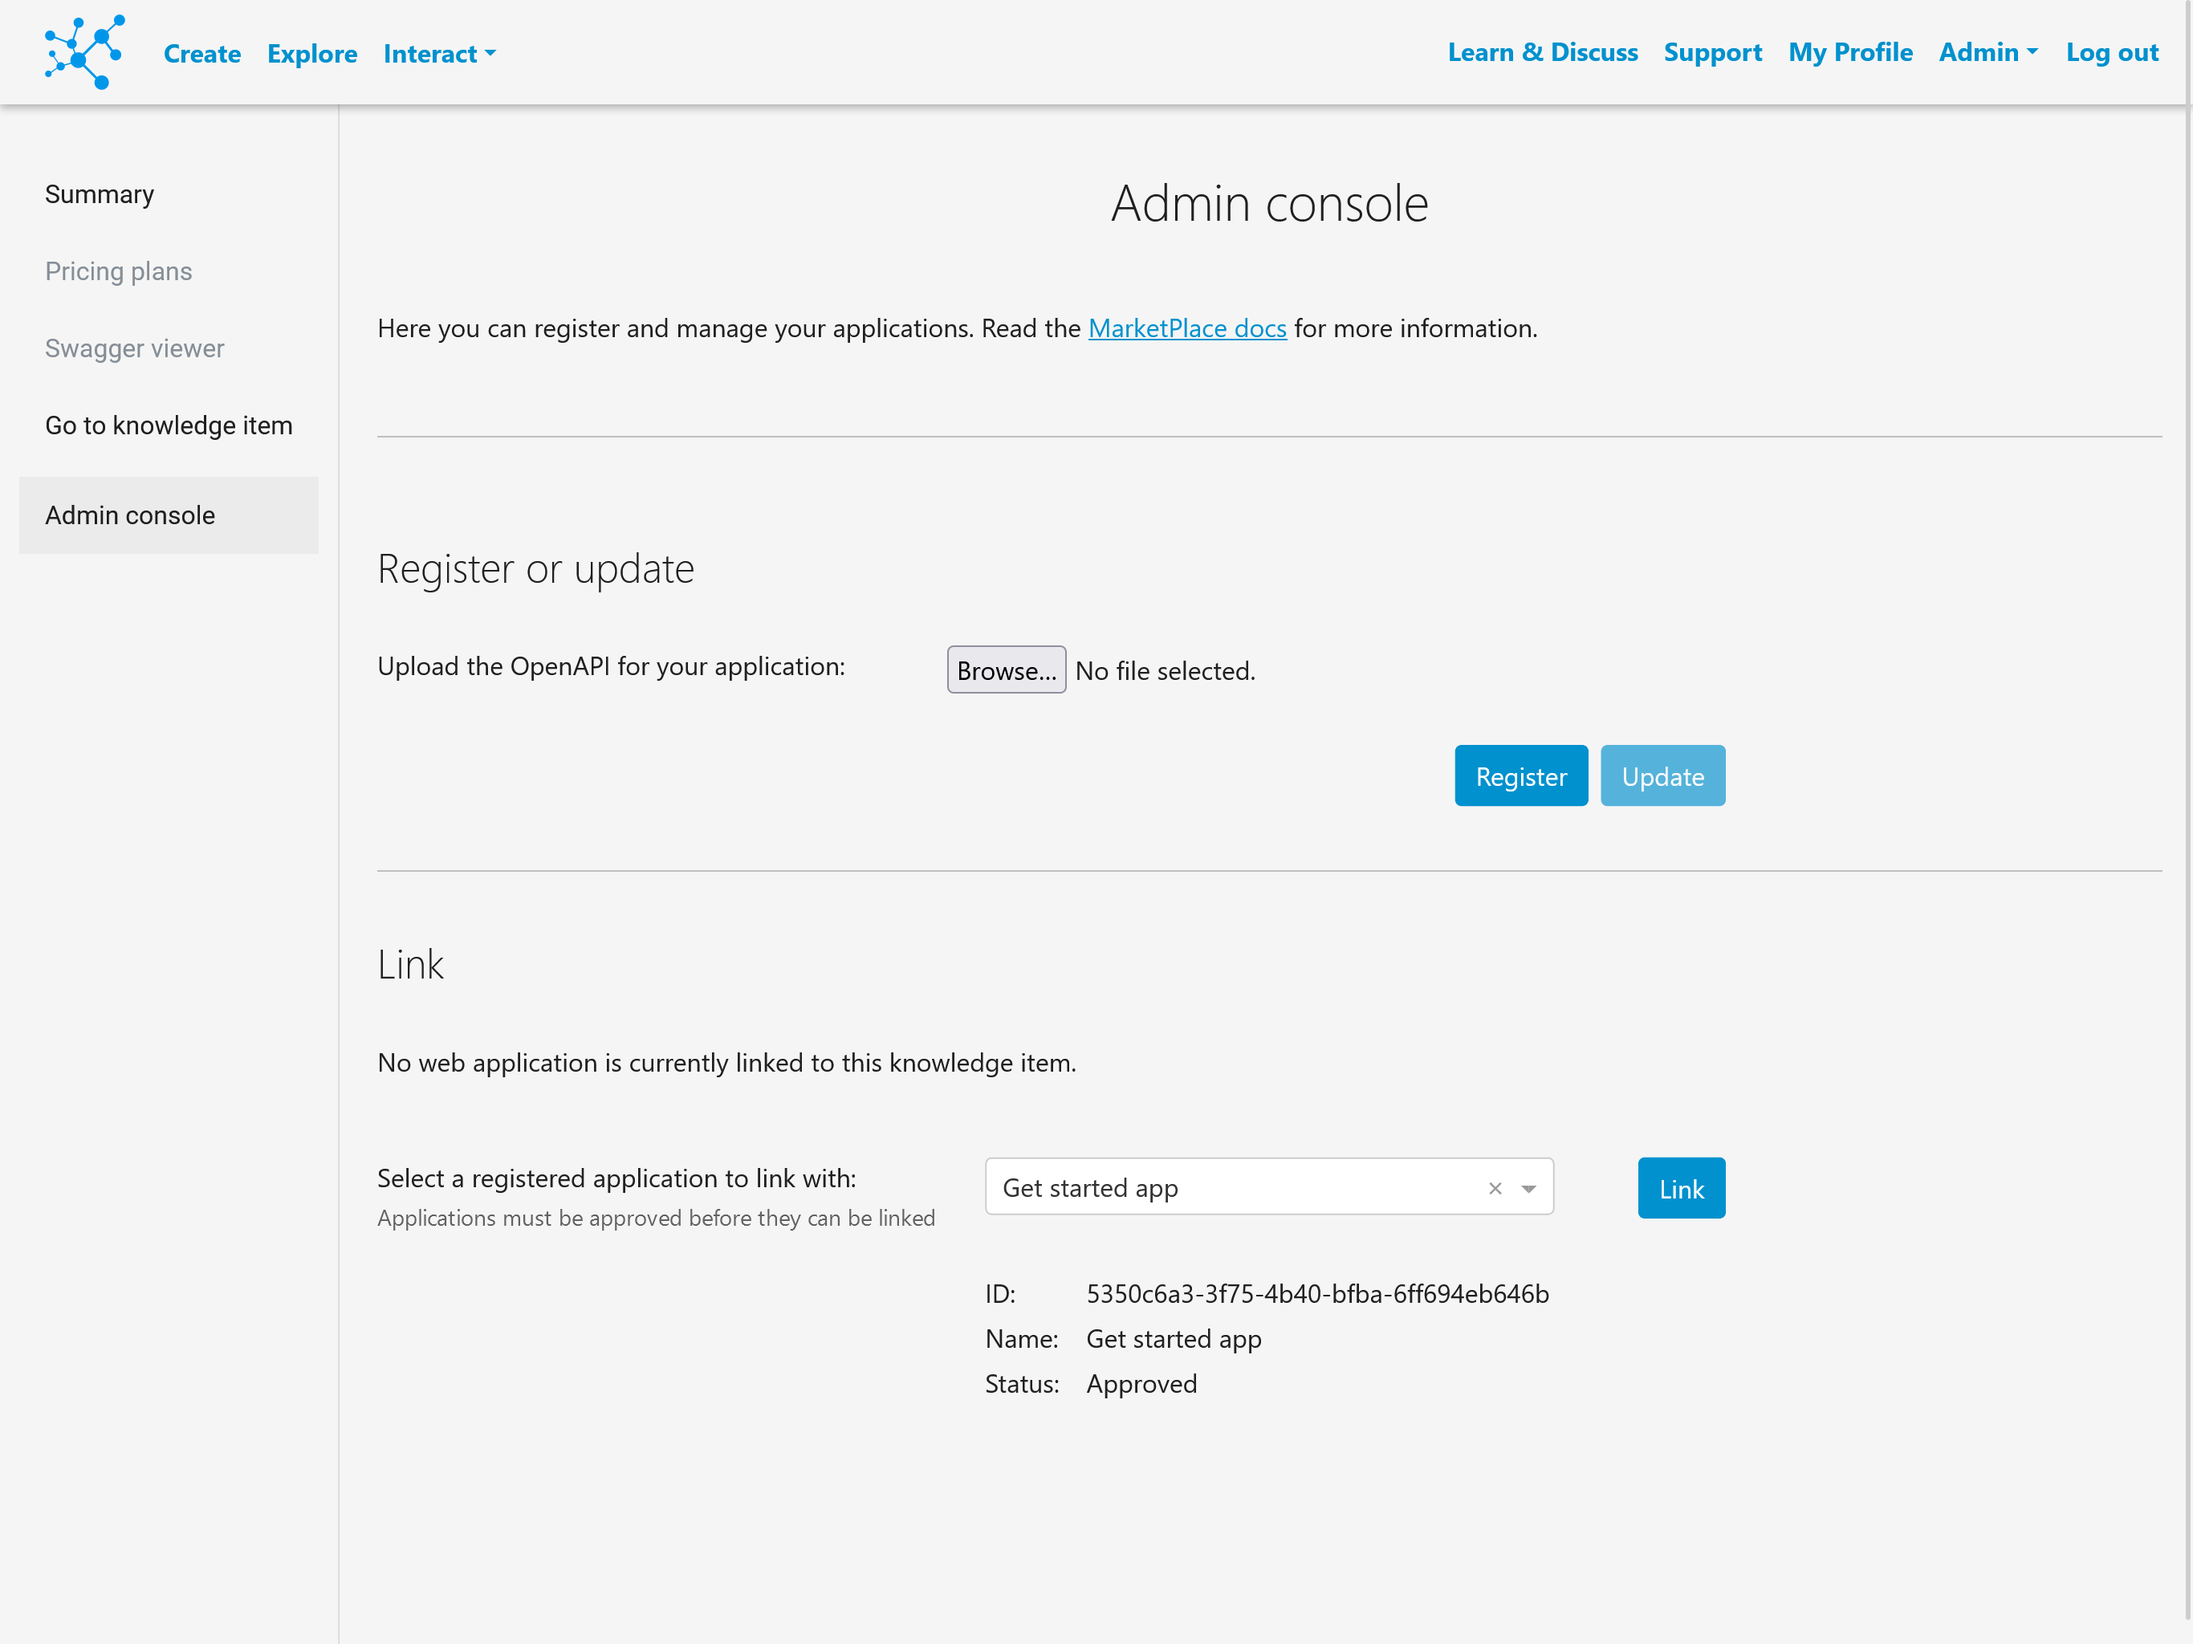
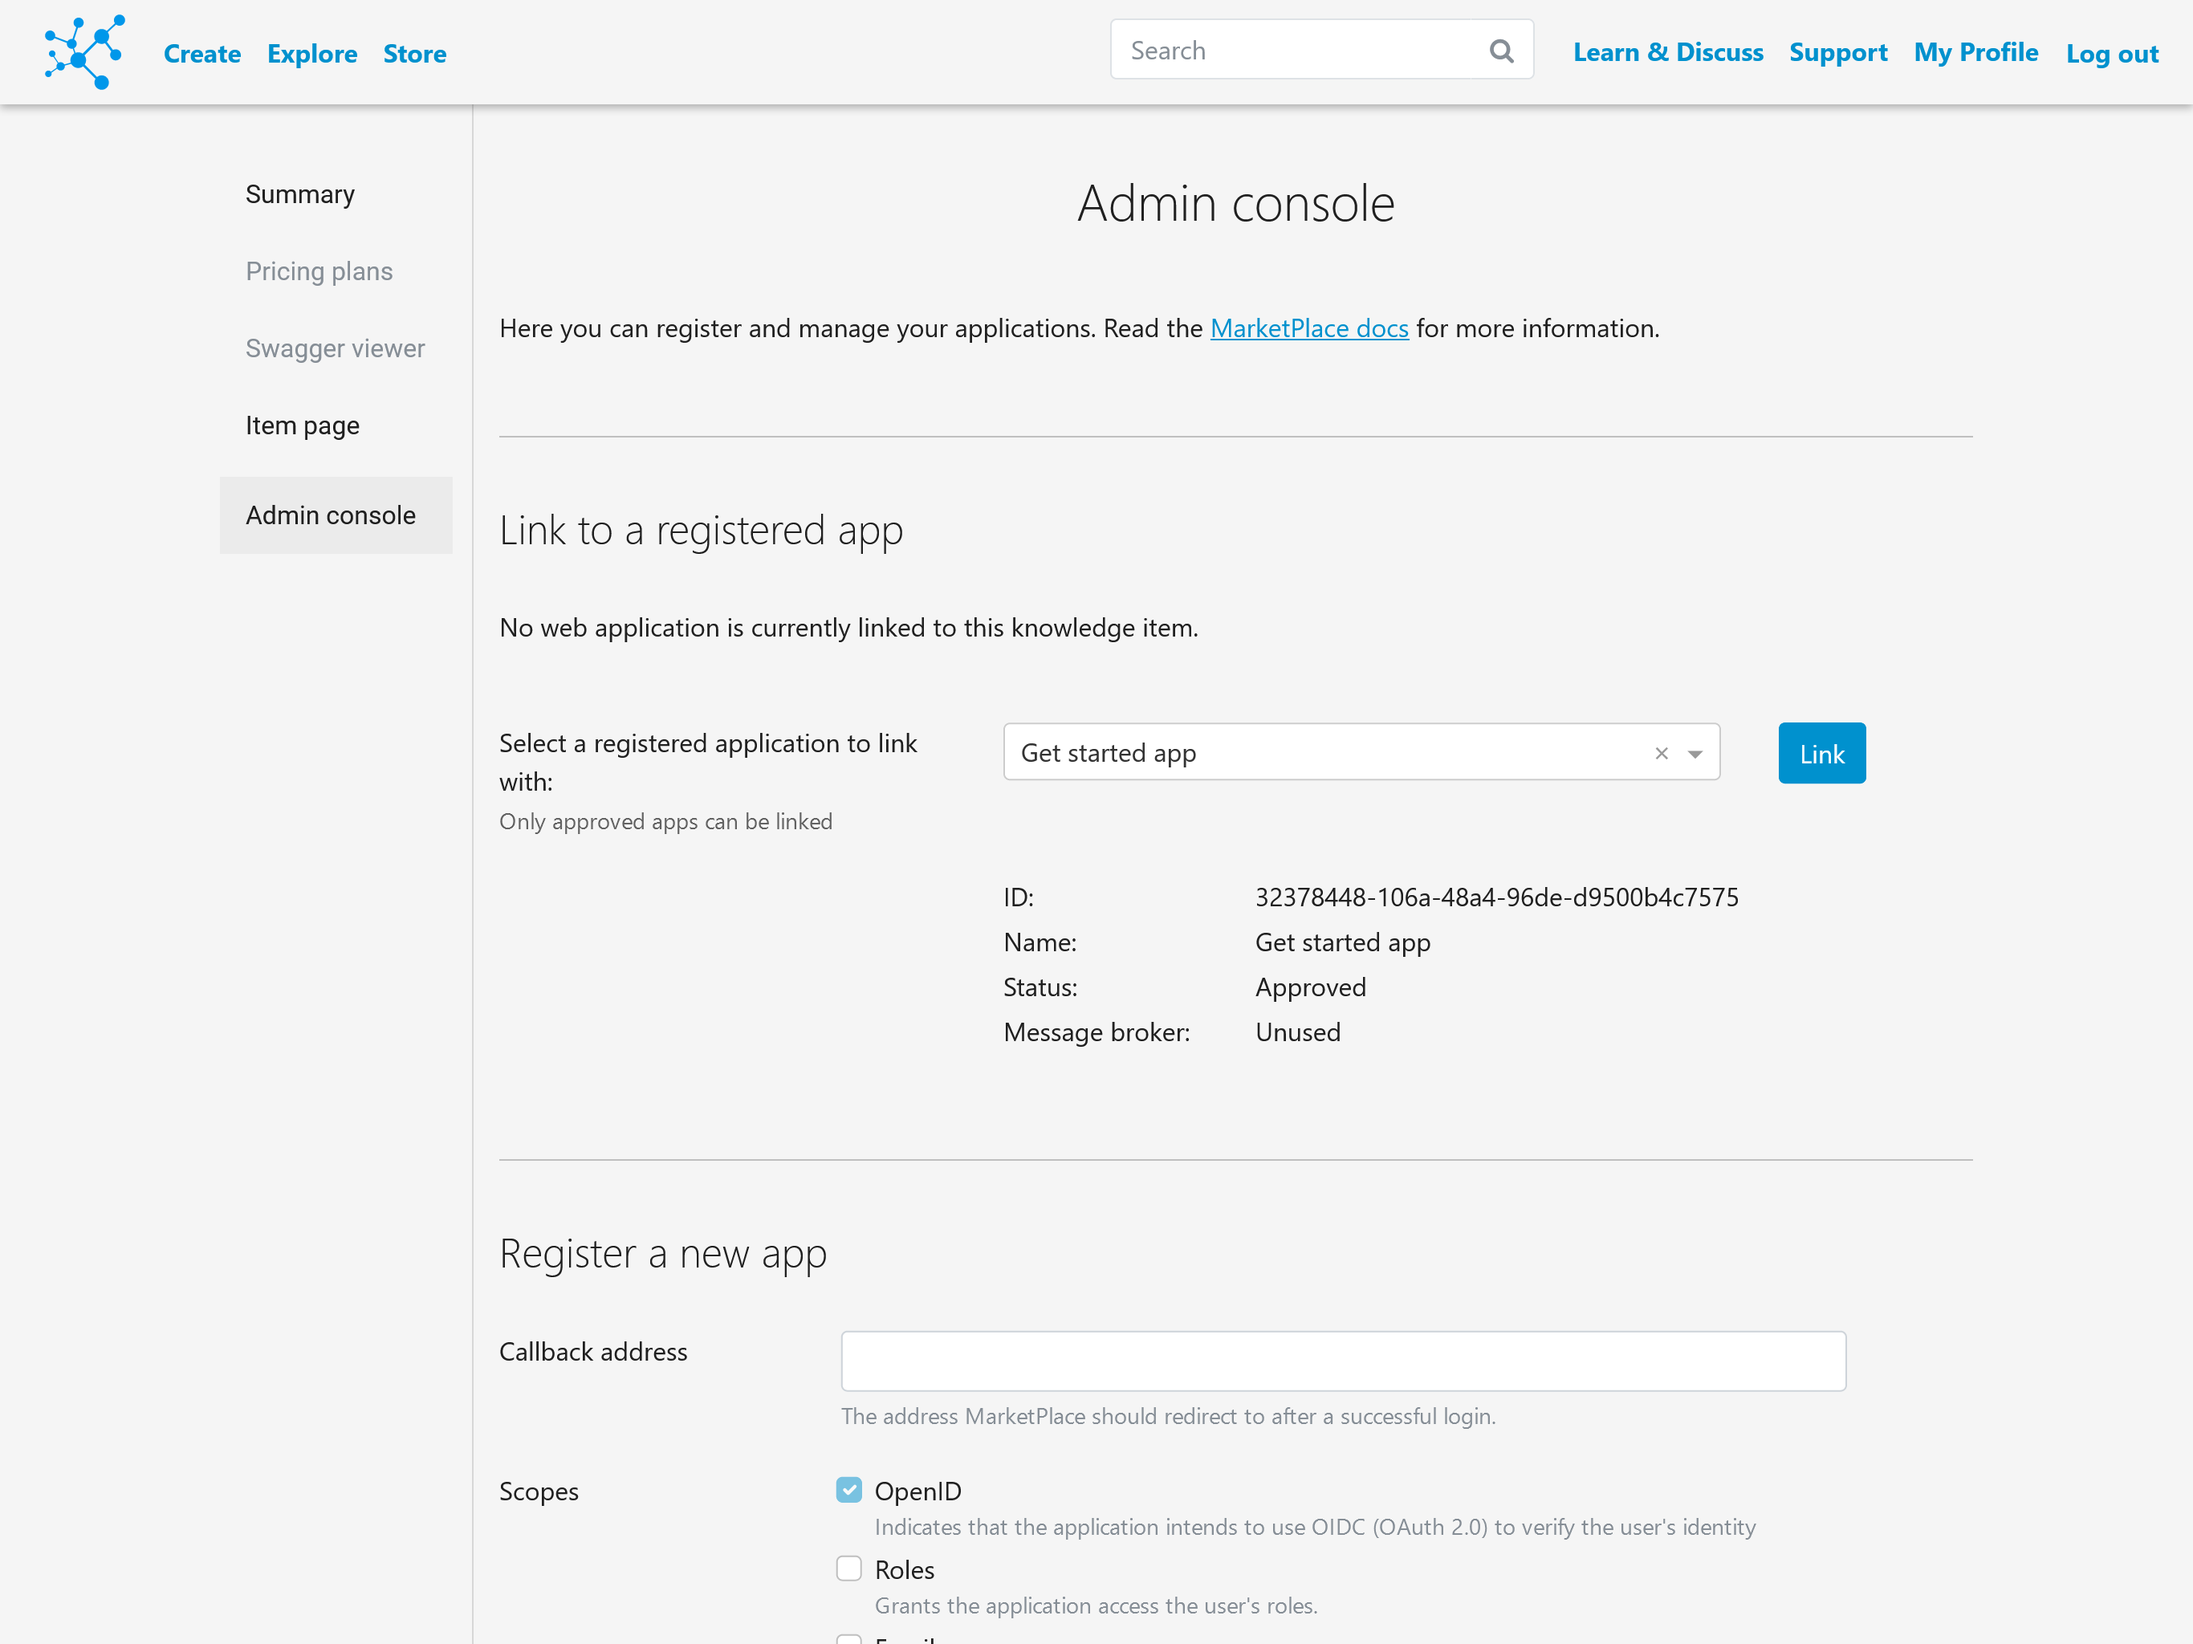
Update to match v1.4.0-beta (#11)
* Update specification and link to discourse

* update registration/update images

* Update registration and update text

* bump version

diff --git a/packageinfo.py b/packageinfo.py
@@ -1,2 +1,2 @@
 NAME = "marketplace_user_docs"
-VERSION = "1.1.2-beta"
+VERSION = "1.1.4-beta"

diff --git a/docs/source/apps/mp-api.md b/docs/source/apps/mp-api.md
@@ -9,20 +9,7 @@ In this section we will explain some of the most relevant parts of the specifica
 
 ### Info
 
-This top level section includes all the metadata related to the application, such as the name (`x-application-name`), version (`x-version`) or contact persons (`x-contacts`).
-
-#### OAuth
-
-the `x-oauth-client` object contains the information needed to integrate the application with MarketPlace's Single Sign On mechanism.
-
-- The `client-id` uniquely identifies the application in the platform. Thus, this value should be empty (or removed altogether) when the app is being registered, since the platform will provide the value upon successful registration, and specified when the application is being updated.
-- The `callback` URL is used by MarketPlace to redirect the user after logging in.
-- The `scopes` list represents the user information and permissions the application requires.
-  Common supported values are:
-  - `"openid"`, required for authentication.
-  - `"email"`, access the user email.
-  - `"profile"`, read other user information (username, full name, nickname, website...) when available.
-  - `"offline_access"`, would allow the application to query the MarketPlace without requiring user interaction.
+This top level section includes all the metadata related to the application, such as the name (`title`), description (`description`) or version (`version`).
 
 #### Products
 
@@ -31,8 +18,8 @@ In order to use an application, a product must be purchased.
 
 - `name` corresponds to the name of the product.
 - `description` corresponds to the description of the product.
-- `product-id`, similar to `client-id` in `x-oauth-client`, uniquely identifies each product.
-  It should also be omitted/empty for new product registrations.
+- `product-id` uniquely identifies each product.
+  It should be omitted/empty for new product registrations.
 
 ### Servers
 

diff --git a/docs/source/apps/registration.md b/docs/source/apps/registration.md
@@ -24,7 +24,10 @@ To proceed to the next step, click on "_Dashboard_".
 
 ## 2. Register application
 
-In the _Register or update_ section of _Admin console_ you can upload the file with the openAPI specification.
+In the _Register_ section of _Admin console_ you can provide the necessary information about the application.
+The callback address and scopes are needed for integrating authentication via the MarketPlace in your app.
+
+Here you can must also upload the file with the openAPI specification.
 For more information on this file, refer to the [OpenAPI specification section](mp-api.md).
 
 ![Registration input](../_static/img/app_registration/register_app.png)
@@ -35,6 +38,10 @@ If the registration process is successful, you will be provided with some meanin
 
 In the case that you have developed the application following a setup similar to the aforementioned get-started app, the `client_id` and `client_secret` should be used when you start your application server to enable the Single Sing On mechanism via the MarketPlace platform.
 
+```{Attention}
+For security reasons, the `client_secret` will not be shown again. Store it somewhere safe if you intend to use it in the future.
+```
+
 Next, a platform admin should approve the registration.
 In the meantime, make sure that your application server is running and can be reached.
 
@@ -44,7 +51,7 @@ Once the application has been approved, it will be available for linking in the 
 
 ![Link the application](../_static/img/app_registration/link_app.png)
 
-Now the application information (client ID and capabilities) should be available in the _Summary_.
+Now the application information should be available in the _Summary_.
 
 ![Application Dashboard](../_static/img/app_registration/app_info.png)
 

diff --git a/docs/source/apps/update.md b/docs/source/apps/update.md
@@ -4,8 +4,8 @@ Once an application has already been registered, it can be updated without havin
 
 ## 1. Update the .yml file
 
-The `version` field must be updated each time the application is updated.
-The `client-id` provided in the initial registration should be included in the `x-oauth-client` section.
+The openAPI specification is now optional, in case only the callback or the scopes are modified.
+Otherwise, the `version` field must be increased each time the application is updated.
 
 If any products remain unchanged, their `product-id` should be included in the `x-products` description.
 

diff --git a/docs/source/support.md b/docs/source/support.md
@@ -3,7 +3,7 @@
 ## Discourse server
 
 For general discussions and questions, please visit the Discourse of the MarketPlace:
-[https://dev-discourse.the-marketplace.eu/](https://dev-discourse.the-marketplace.eu/)
+[https://forum.materials-marketplace.eu](https://forum.materials-marketplace.eu)
 
 ## Issue board
 
